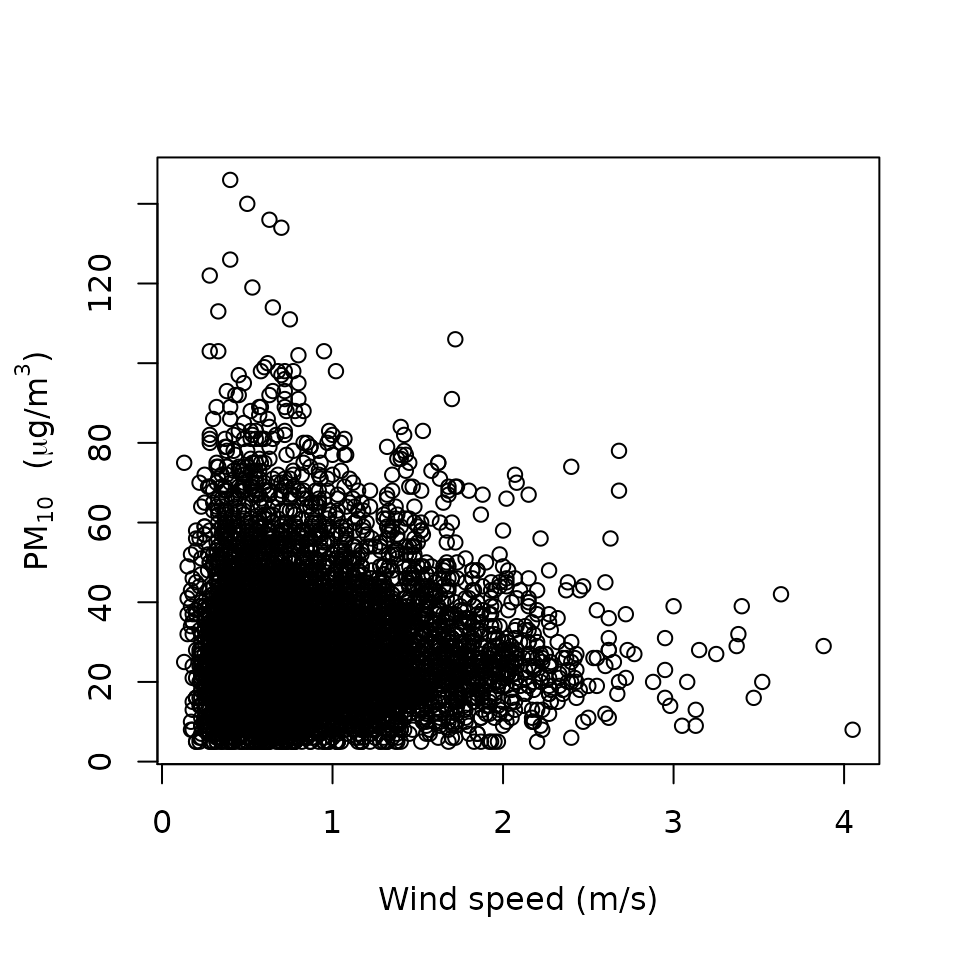
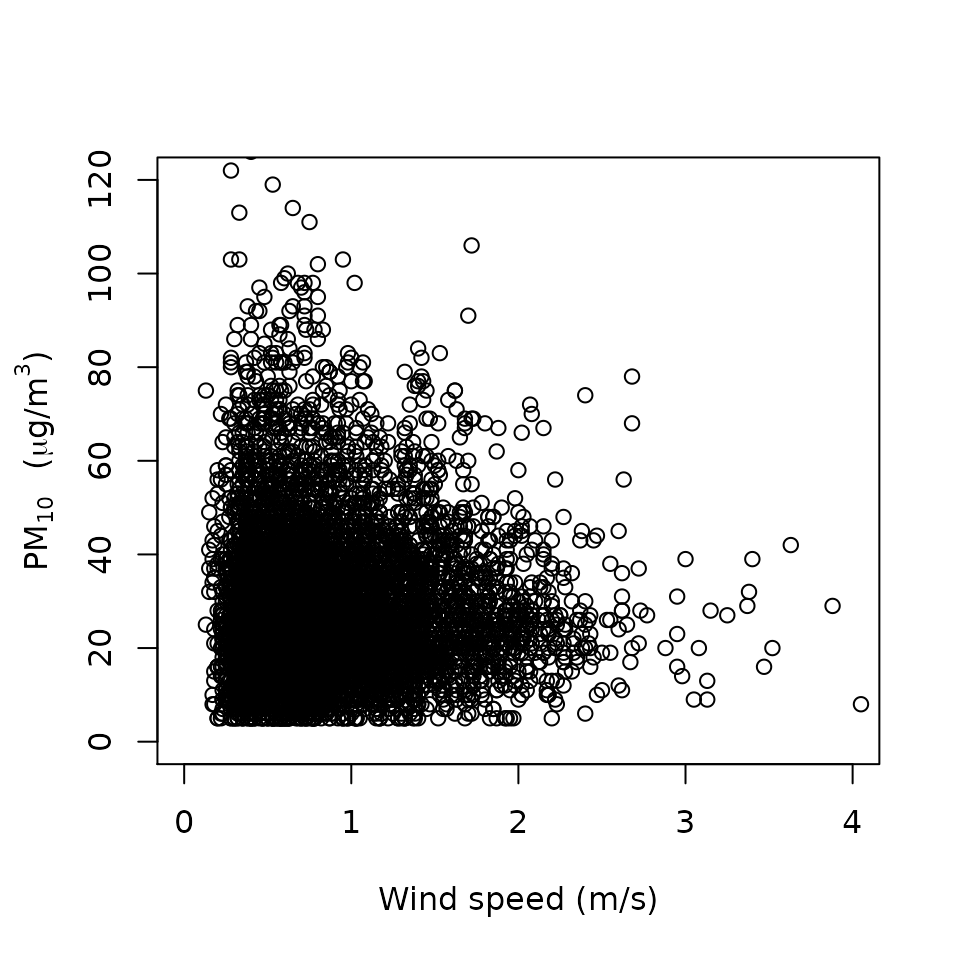
update site

diff --git a/docs/articles/qualr.html b/docs/articles/qualr.html
@@ -85,7 +85,7 @@
       <h1 data-toc-skip>How to use qualR</h1>
                         <h4 class="author">Mario Gavidia-Calderón, Daniel Schuch &amp; Maria de Fatima Andrade</h4>
                         
-            <h4 class="date">2021-10-19</h4>
+            <h4 class="date">2021-10-20</h4>
       
       <small class="dont-index">Source: <a href="https://github.com/quishqa/qualR/blob/master/vignettes/qualr.Rmd"><code>vignettes/qualr.Rmd</code></a></small>
       <div class="hidden name"><code>qualr.Rmd</code></div>
@@ -230,7 +230,9 @@
 <div class="sourceCode" id="cb5"><pre class="downlit sourceCode r">
 <code class="sourceCode R"><span class="fu"><a href="https://rdrr.io/r/graphics/plot.default.html">plot</a></span><span class="op">(</span><span class="va">rj_ca_params</span><span class="op">$</span><span class="va">Vel_Vento</span>, <span class="va">rj_ca_params</span><span class="op">$</span><span class="va">PM10</span>,
      xlab <span class="op">=</span> <span class="st">"Wind speed (m/s)"</span>,
-     ylab <span class="op">=</span> <span class="st">""</span><span class="op">)</span>
+     ylab <span class="op">=</span> <span class="st">""</span>,
+     xlim <span class="op">=</span> <span class="fu"><a href="https://rdrr.io/r/base/c.html">c</a></span><span class="op">(</span><span class="fl">0</span>,<span class="fl">4</span><span class="op">)</span>,
+     ylim <span class="op">=</span> <span class="fu"><a href="https://rdrr.io/r/base/c.html">c</a></span><span class="op">(</span><span class="fl">0</span>,<span class="fl">120</span><span class="op">)</span><span class="op">)</span>
 <span class="fu"><a href="https://rdrr.io/r/graphics/mtext.html">mtext</a></span><span class="op">(</span><span class="fu"><a href="https://rdrr.io/r/base/expression.html">expression</a></span><span class="op">(</span><span class="va">PM</span><span class="op">[</span><span class="fl">10</span><span class="op">]</span><span class="op">~</span><span class="st">" ("</span><span class="op">*</span><span class="va">mu</span><span class="op">*</span><span class="st">"g/m"</span><span class="op">^</span><span class="fl">3</span><span class="op">*</span><span class="st">")"</span><span class="op">)</span>, side <span class="op">=</span> <span class="fl">2</span>, line <span class="op">=</span> <span class="fl">2.5</span><span class="op">)</span></code></pre></div>
 <p><img src="qualr_files/figure-html/unnamed-chunk-5-1.png" width="480"></p>
 </div>
